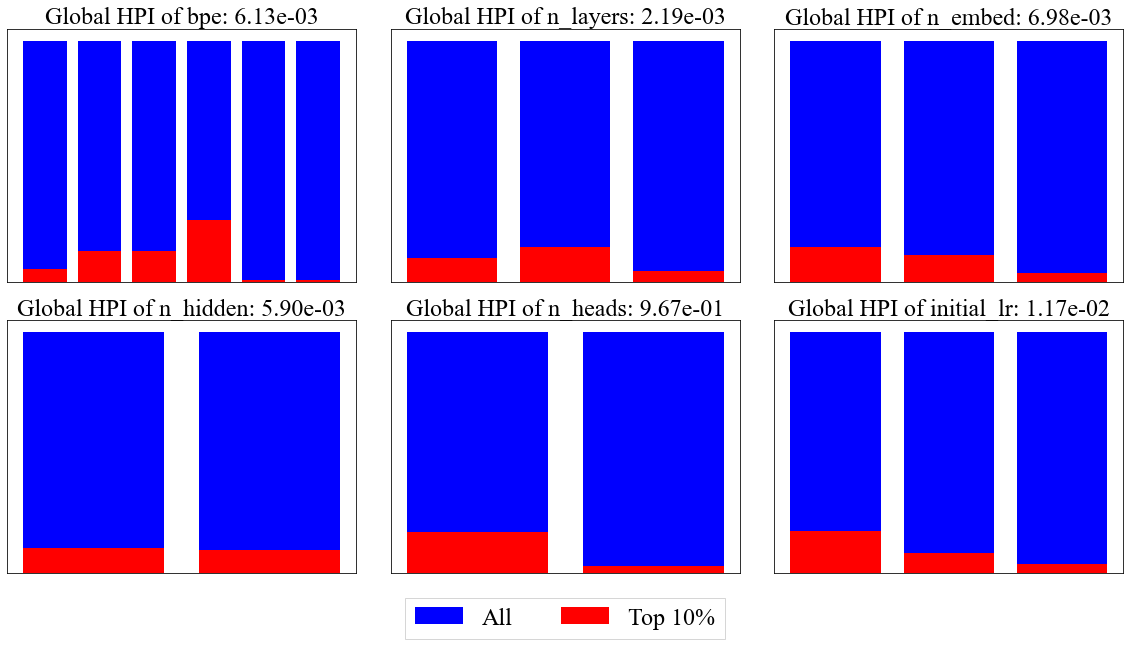
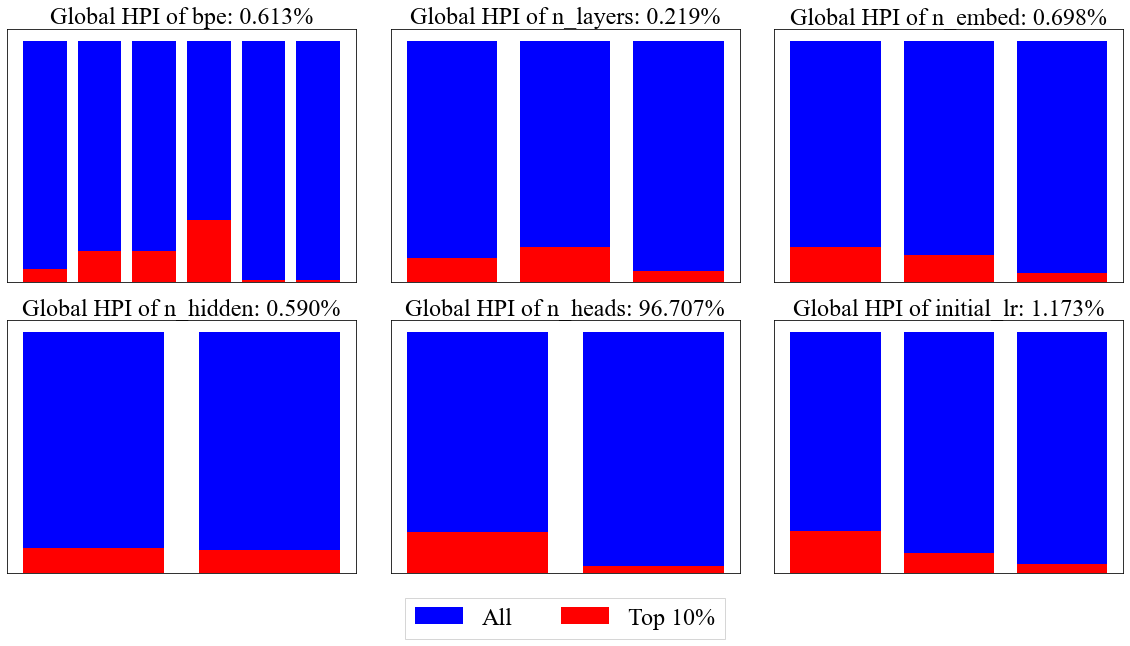
[doc] Add an explanation about the bias caused by non-local integral

diff --git a/README.md b/README.md
@@ -10,13 +10,13 @@ This repository is based on the paper `Revisiting Hyperparameter Importance Asse
 The key insight of our method is the fact that hyperparameter importance (HPI) depends on the definition of search space, but it has not been investigated how to define local search space.
 
 For example, we use [NMT-Bench](https://github.com/Este1le/hpo_nmt) as a target example.
-We first calculate the global HPI ($\gamma = 0.1$) using our method and then obtain the following result (We normalized the HPI so that the sum of HPI becomes 1).
+We first calculate the global HPI ( $\gamma = 0.1$ ) using our method and then obtain the following result (We normalized the HPI so that the sum of HPI becomes 100%).
 According to this result, the HPI of `n_heads` is dominant as it takes up 96.7% of importance.
 
 <img src="figs/nmt-global-hpi.png" alt="">
 
 On the other hand, if we limit the search space to the top-10% domain,
-we obtain the following HPI ($\gamma^\prime = 0.01$):
+we obtain the following HPI ( $\gamma^\prime = 0.01$ ):
 
 <img src="figs/nmt-local-hpi.png" alt="">
 
@@ -28,6 +28,37 @@ It just implies that even though we need to tune intensively tune `n_heads` to o
 
 To better-tune hyperparameters, we need to gain insight into which hyperparameters to focus at each phase of optimizations.
 Our method tackles such an issue.
+
+**NOTE**
+
+The distinct difference from applying f-ANOVA to the only top-10% data
+is that while f-ANOVA takes the integral over the whole search space,
+**our method takes the integral only over the local search space**, which requires some mathematics.
+The consequence of this change is to avoid the dilution caused by considering the whole search space.
+
+For example, a straightforward way to measure the importance is to apply f-ANOVA to a function $g(x) := \min(f(x), y^\star)$ where $y^\star$ is a user-defined parameter.
+Here is an example using $f(x) = x^2$ and $y^\star = 1$.
+If we just compute the f-ANOVA, we calculate the following:
+$
+\mu_{\mathrm{old}} = \frac{1}{20}\int_{-10}^{10} g(x) dx = \frac{1}{20}\biggl(\frac{2}{3} + 18 \biggr) = \frac{14}{15}  \\
+\sigma_{\mathrm{old}}^2 = \frac{1}{20}\int_{-10}^{10} (g(x) - \mu)^2 dx = \frac{1}{20} \biggl(\frac{2}{5} + 18 \biggr) -\mu^2 = \frac{11}{225} \simeq 0.04889\dots.
+$
+However, if we apply the f-ANOVA only to the local space $[-1, 1]$, the result is completely different:
+$
+\mu_{\mathrm{new}} = \frac{1}{2}\int_{-1}^1 f(x) dx = \frac{1}{3} \\
+\sigma_{\mathrm{new}}^2 = \frac{1}{2}\int_{-1}^1 (f(x) - \mu)^2 dx = \frac{1}{5} -\mu^2 = \frac{4}{45} \simeq 0.08888\dots.
+$
+More generally, if we define the bounds as $[-L, L]$ where $L > 1$,
+it could be written as follows:
+$
+\mu_{\mathrm{old}} = \frac{1}{2L}\int_{-L}^{L} g(x) dx = \frac{1}{2L}\biggl(\frac{2}{3} + 2(L - 1) \biggr) = 1 - \frac{2}{3L}  \\
+\sigma_{\mathrm{old}}^2 = \frac{1}{2L}\int_{-L}^{L} (g(x) - \mu)^2 dx = \frac{1}{2L} \biggl(\frac{2}{5} + 2(L - 1) \biggr) -\mu^2 = \frac{4}{3}\biggl( \frac{2}{5L} - \frac{1}{3L^2} \biggr).
+$
+This example implies that clipping functions, which is quite conventional, is biased depending on the search space design, i.e. $L$ in this example.
+On the other hand, our method yields unbiased variance for any definitions of the search space.
+
+
+<img src="figs/toy-example-difference.png" alt="">
 
 ## Install
 
